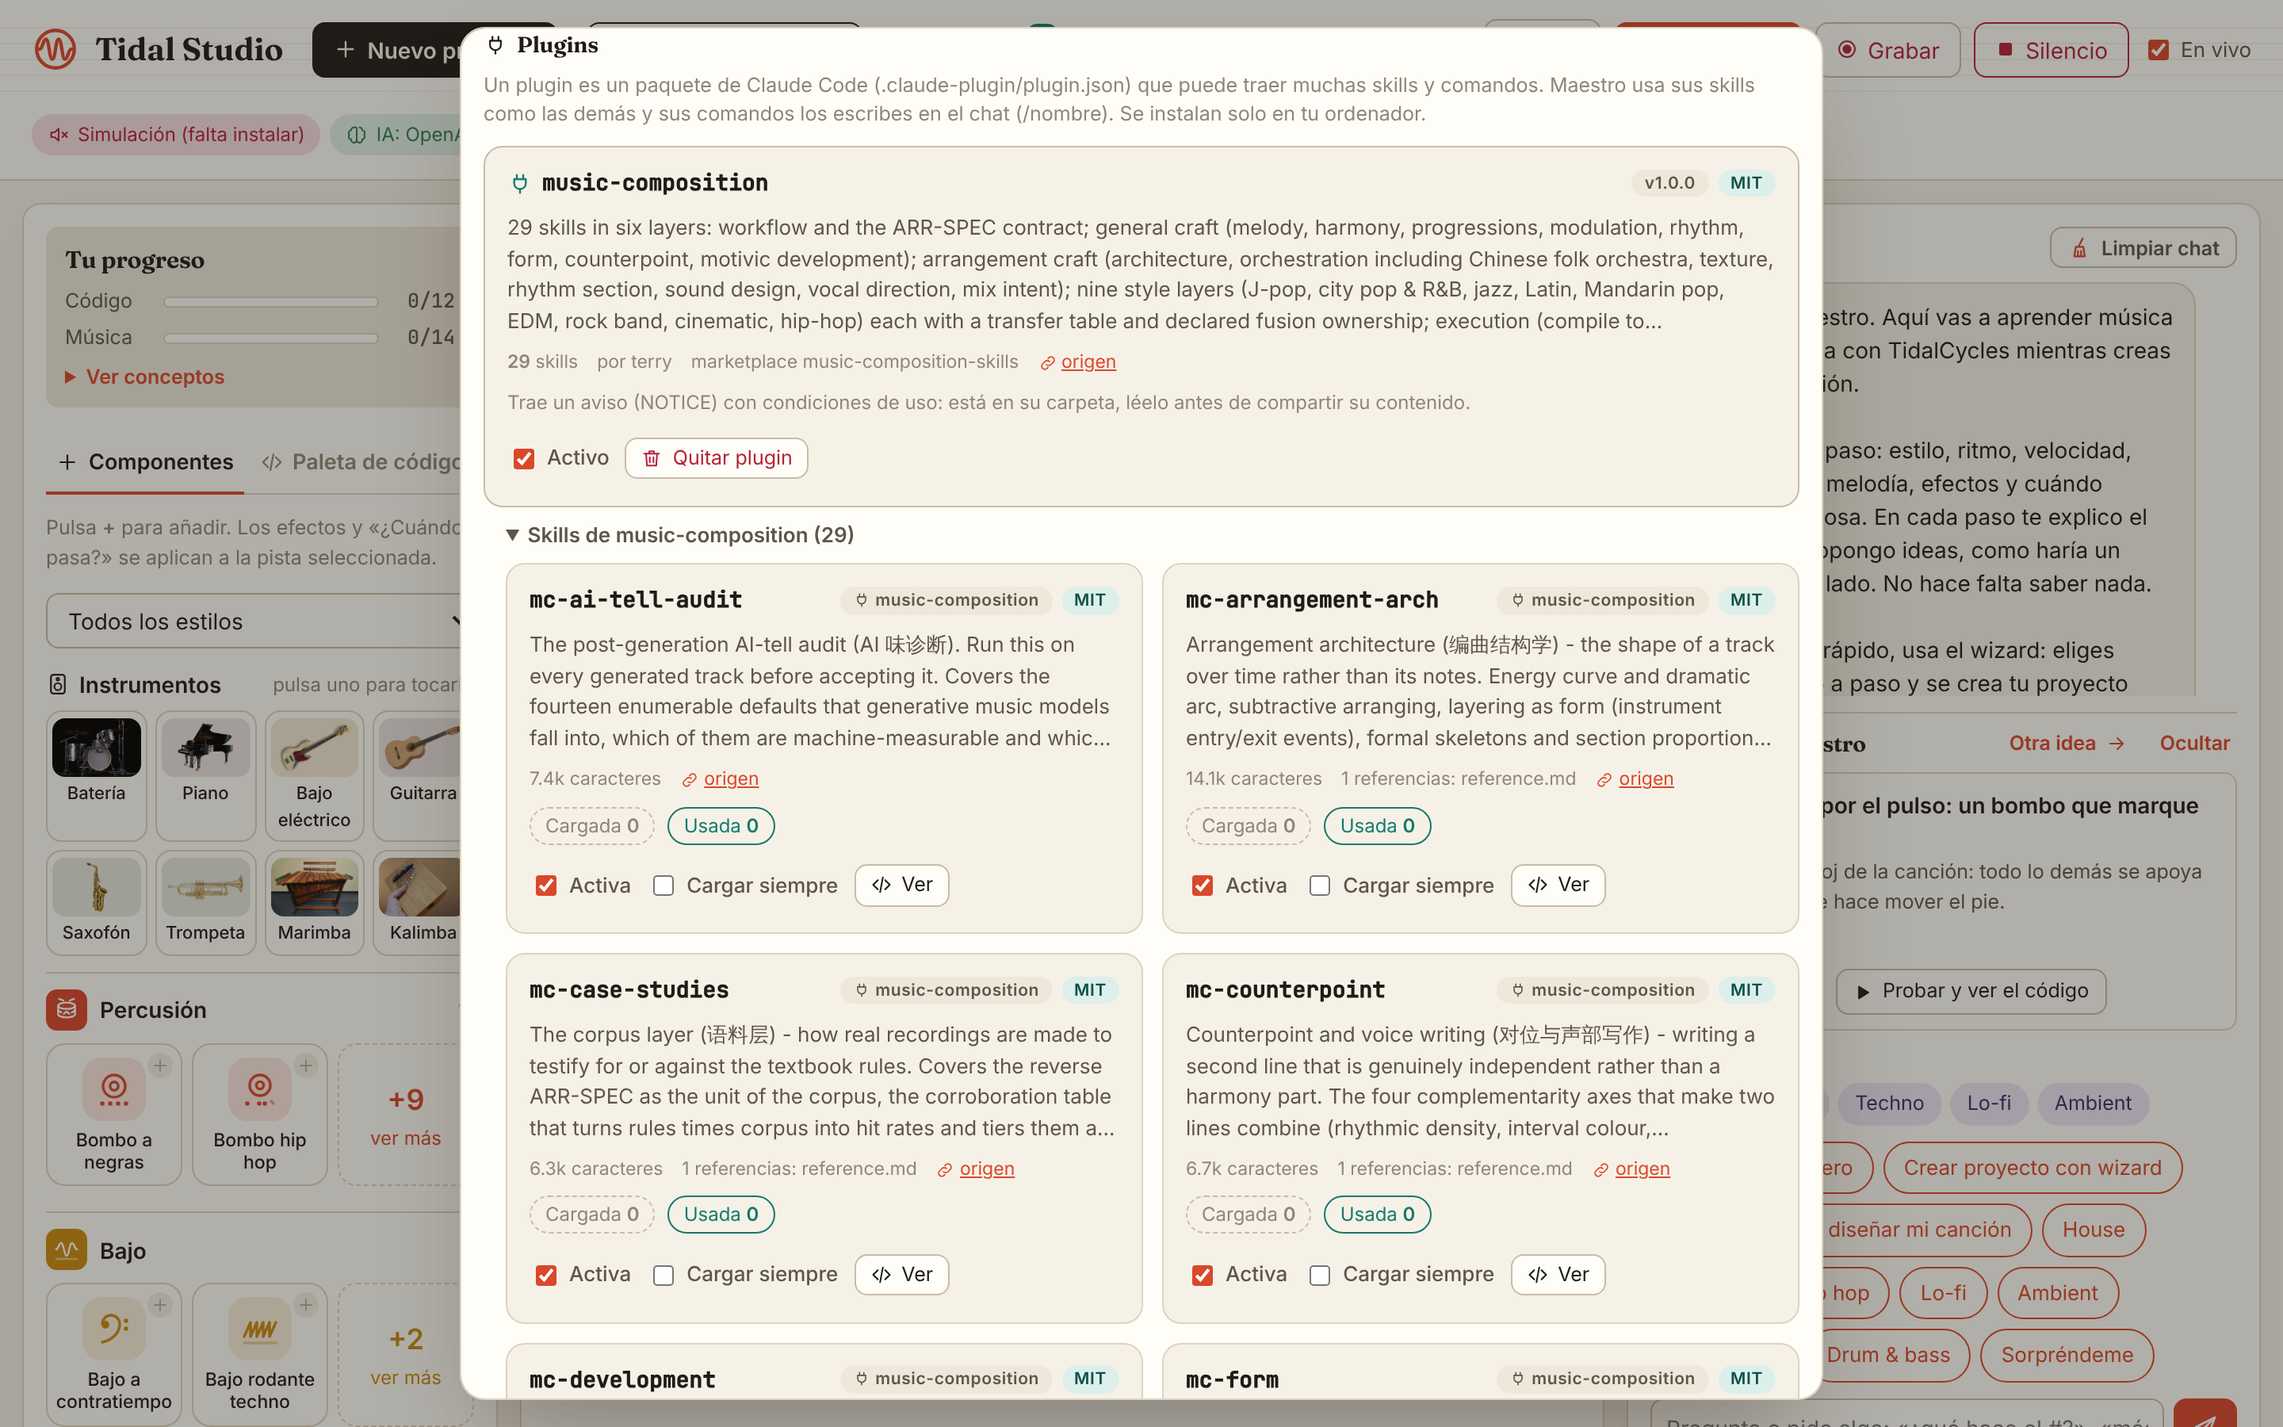
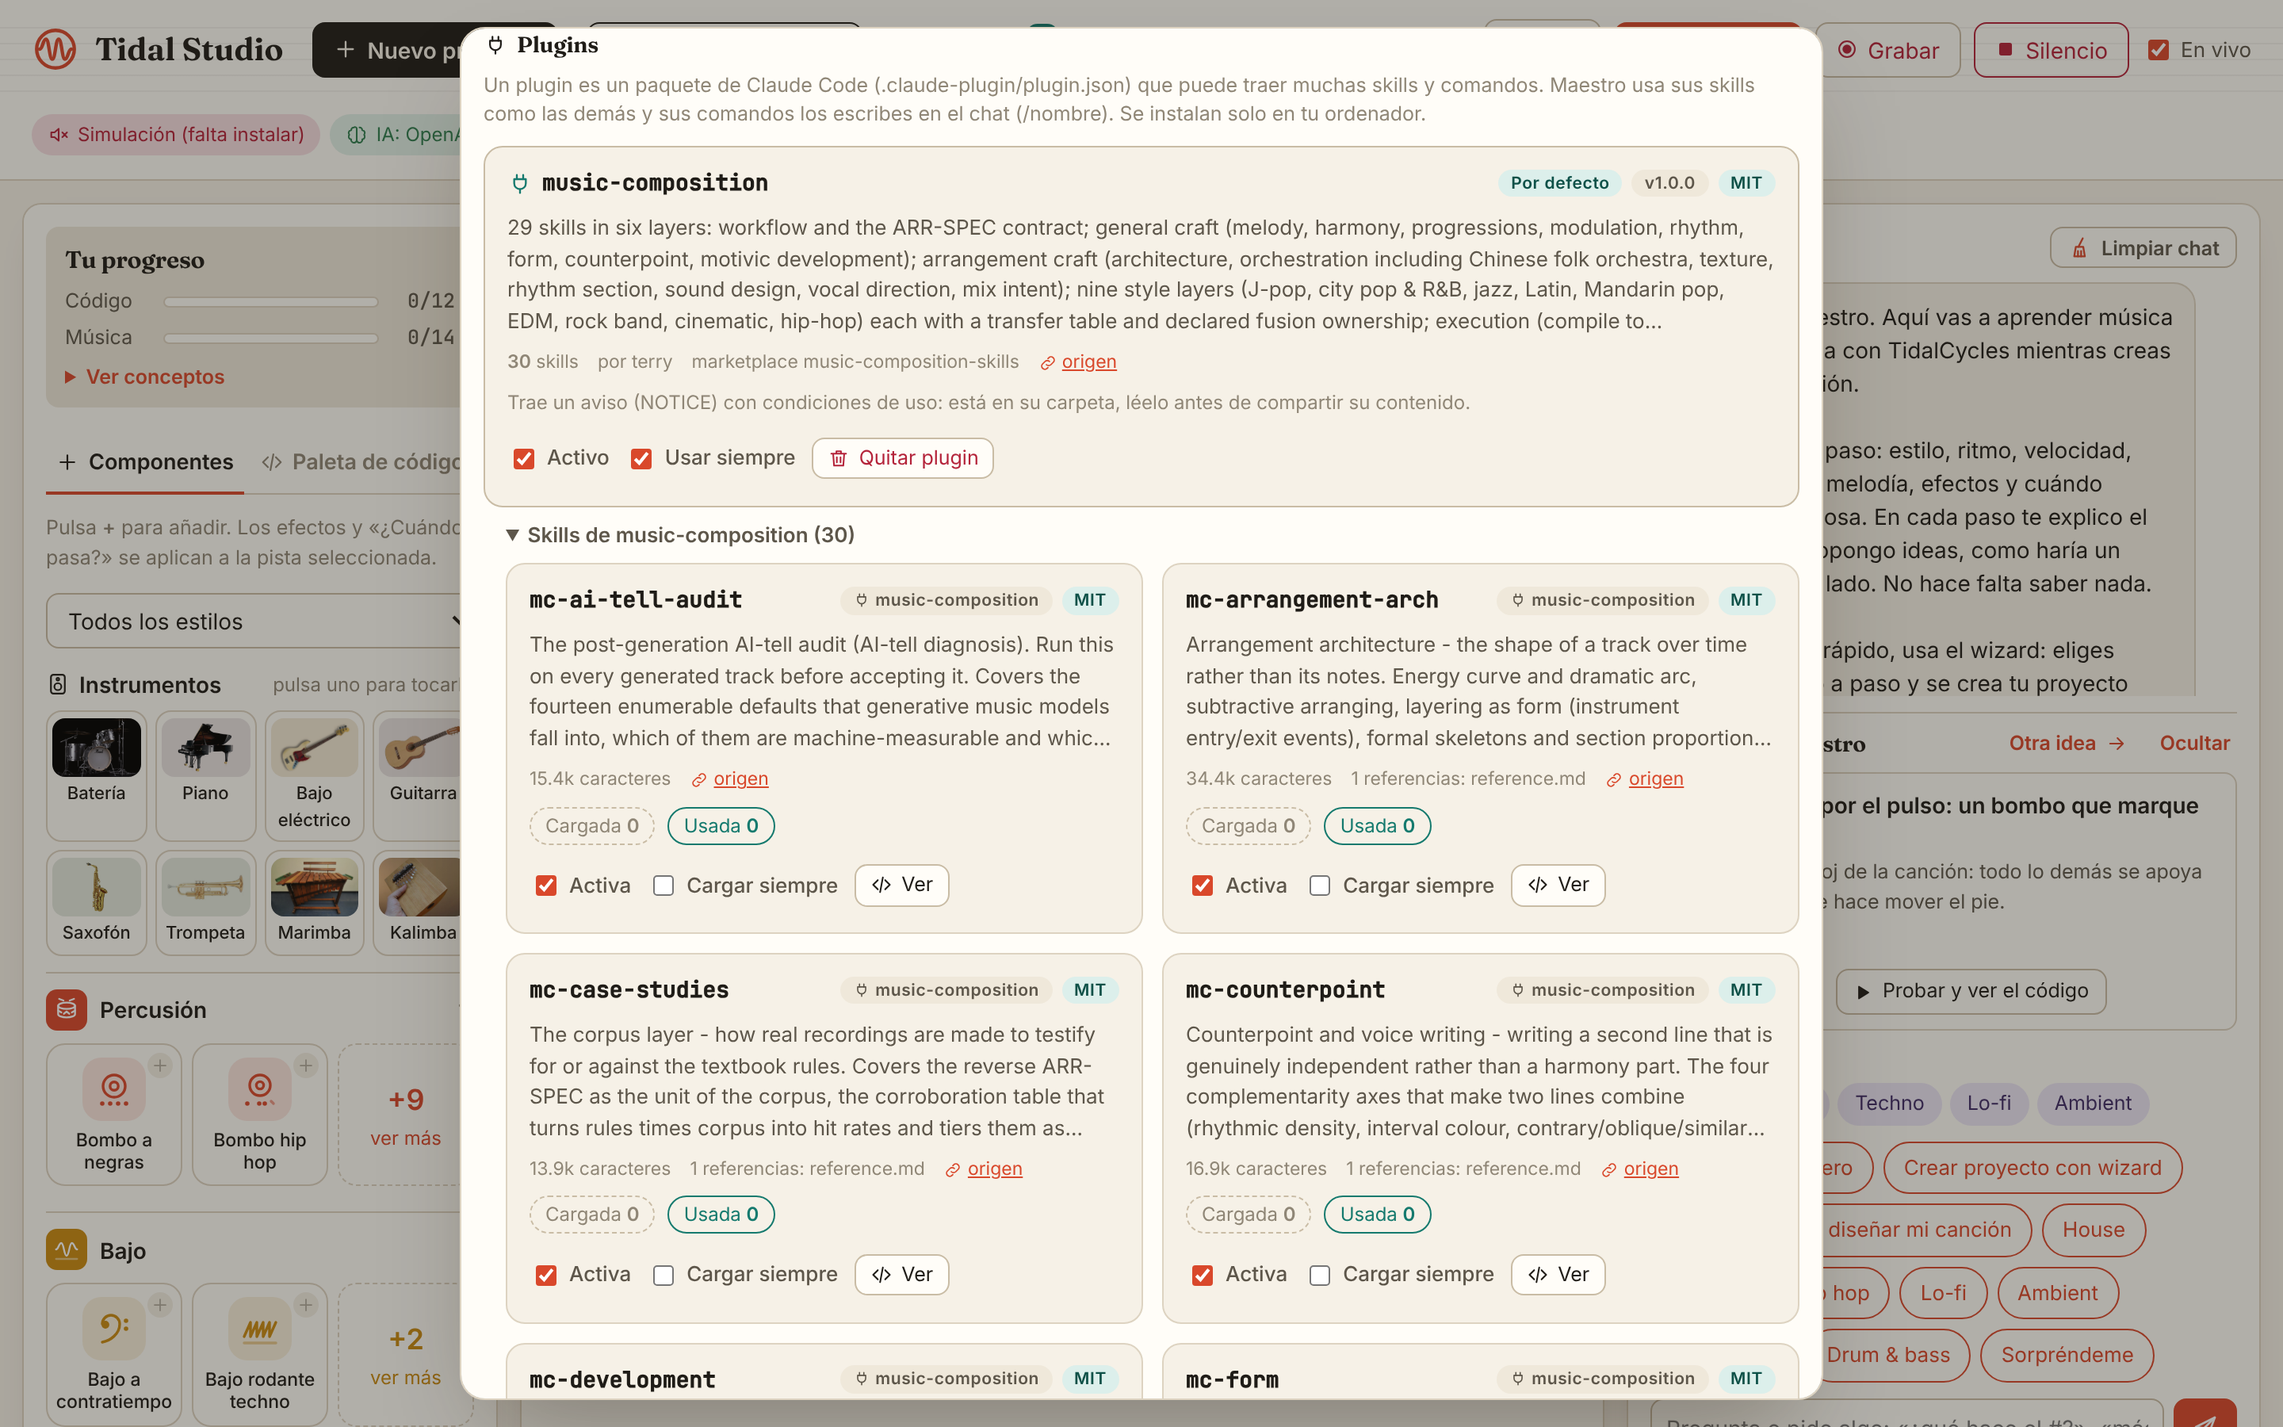
Default music-composition plugin: download on first start, always use it
Claude-Session: https://claude.ai/code/session_011rzsaU1tcsVigeZDwfcmsd

diff --git a/web/skills.js b/web/skills.js
@@ -50,6 +50,7 @@ function pluginCardHTML(p, focus) {
   return `<article class="sk-card pl-card ${p.enabled ? "" : "off"} ${focus === p.name ? "focus" : ""}" data-plugin="${esc(p.name)}">
       <header>
         ${icon("plugin", 16)}<b>${esc(p.title)}</b>
+        ${p.default ? `<span class="sk-tag lic">${L("Por defecto", "Default")}</span>` : ""}
         ${p.version ? `<span class="sk-tag">v${esc(p.version)}</span>` : ""}
         ${p.license ? `<span class="sk-tag lic">${esc(p.license)}</span>` : `<span class="sk-tag warn">${L("sin licencia", "no license")}</span>`}
       </header>
@@ -59,6 +60,7 @@ function pluginCardHTML(p, focus) {
       ${p.notice ? `<p class="pl-note">${L("Trae un aviso (NOTICE) con condiciones de uso: está en su carpeta, léelo antes de compartir su contenido.", "It ships a NOTICE with terms of use: it's in its folder, read it before sharing its content.")}</p>` : ""}
       <footer>
         <label class="toggle"><input type="checkbox" data-a="plugin-enable" ${p.enabled ? "checked" : ""}> ${L("Activo", "On")}</label>
+        <label class="toggle" title="${esc(L("Maestro carga su skill principal en cada mensaje y prefiere sus skills cuando encajan", "Maestro loads its main skill with every message and prefers its skills when they match"))}"><input type="checkbox" data-a="plugin-prefer" ${p.preferred ? "checked" : ""} ${p.enabled ? "" : "disabled"}> ${L("Usar siempre", "Always use")}</label>
         <button class="sk-btn danger" data-a="plugin-remove">${icon("trash", 14)} ${L("Quitar plugin", "Remove plugin")}</button>
       </footer>
     </article>`;
@@ -121,6 +123,7 @@ export function skillsDialogHTML(list, opts = {}) {
     <h3 class="sk-h">${icon("plugin", 15)} ${L("Plugins", "Plugins")}</h3>
     <p class="hint pl-intro">${L("Un plugin es un paquete de Claude Code (.claude-plugin/plugin.json) que puede traer muchas skills y comandos. Maestro usa sus skills como las demás y sus comandos los escribes en el chat (/nombre). Se instalan solo en tu ordenador.",
       "A plugin is a Claude Code package (.claude-plugin/plugin.json) that can bring many skills and commands. Maestro uses its skills like any other and you type its commands in the chat (/name). They're installed only on your computer.")}</p>
+    ${opts.defaultState === "installing" ? `<p class="hint">${L("Descargando el plugin de composición musical que viene por defecto…", "Downloading the default music composition plugin…")}</p>` : ""}
     ${pluginBlocks || `<p class="hint">${L("Aún no hay plugins instalados.", "No plugins installed yet.")}</p>`}
     <form class="sk-install" id="sk-install">
       <label>${icon("plus", 14)} ${L("Instalar una skill o un plugin desde GitHub", "Install a skill or a plugin from GitHub")}</label>

diff --git a/web/app.js b/web/app.js
@@ -2467,7 +2467,7 @@ async function openSkills(focus = "") {
   let r = { skills: [], folder: "" };
   try { r = await api("/api/skills"); } catch (e) { toast(e.message); }
   skillList = r.skills || [];
-  $("#skills-body").innerHTML = skillsDialogHTML(skillList, { focus, folder: r.folder, plugins: r.plugins || [], pluginFolder: r.plugin_folder });
+  $("#skills-body").innerHTML = skillsDialogHTML(skillList, { focus, folder: r.folder, plugins: r.plugins || [], pluginFolder: r.plugin_folder, defaultState: r.default_plugins });
   if (!$("#skills").open) $("#skills").showModal();
   const f = focus && ($(`#skills-body .sk-card[data-name="${CSS.escape(focus)}"]`) || $(`#skills-body .pl-card[data-plugin="${CSS.escape(focus)}"]`));
   if (f) f.scrollIntoView({ block: "nearest" });
@@ -2478,8 +2478,8 @@ function wireSkills() {
   body.addEventListener("change", async (e) => {
     const card = e.target.closest(".sk-card"); const a = e.target.dataset.a;
     if (!card || !a) return;
-    if (a === "plugin-enable") {
-      try { await api("/api/plugins/enable", { name: card.dataset.plugin, on: e.target.checked }); } catch (err) { toast(err.message); }
+    if (a === "plugin-enable" || a === "plugin-prefer") {
+      try { await api(`/api/plugins/${a === "plugin-enable" ? "enable" : "prefer"}`, { name: card.dataset.plugin, on: e.target.checked }); } catch (err) { toast(err.message); }
       return openSkills(card.dataset.plugin);
     }
     try { await api(`/api/skills/${a}`, { name: card.dataset.name, on: e.target.checked }); } catch (err) { toast(err.message); }

diff --git a/server/app.py b/server/app.py
@@ -71,6 +71,11 @@ DEFAULT_CONFIG = {
     # Plugins de Claude Code instalados en my-plugins/ (sus skills y comandos los usa Maestro)
     "plugins": {
         "disabled": [],
+        # «Usar siempre»: Maestro carga su skill principal en cada mensaje y prefiere sus skills
+        "preferred": ["music-composition"],
+        # Se descargan la primera vez que arranca (no van en el instalador: ver plugins.ensure_defaults)
+        "defaults": ["https://github.com/vsalesa/music-composition-skills"],
+        "defaults_done": [],
     },
     "temperature": 0.7,
     "language": "es",
@@ -168,6 +173,30 @@ def install_any(cfg, url, names=None):
         if is_skill_link and "no parece un plugin" in str(e):
             return {"kind": "skill", **skillset.install(url, cfg["github"].get("token", ""))}
         raise
+
+
+DEFAULT_PLUGINS = {"state": "idle", "installed": []}
+
+
+def install_default_plugins():
+    """Primer arranque: descarga los plugins por defecto (el de composición musical) en my-plugins/."""
+    cfg = load_config()
+    pending = [u for u in cfg["plugins"].get("defaults") or [] if u not in (cfg["plugins"].get("defaults_done") or [])]
+    if not pending:
+        return
+    DEFAULT_PLUGINS["state"] = "installing"
+    print("[plugins] Descargando los plugins por defecto / downloading default plugins…")
+    try:
+        got = pluginset.ensure_defaults(cfg)
+        fresh = load_config()  # por si cambiaste algo mientras tanto
+        fresh["plugins"]["defaults_done"] = cfg["plugins"]["defaults_done"]
+        save_config(fresh)
+        DEFAULT_PLUGINS.update(state="done", installed=got)
+        if got:
+            print(f"[plugins] Instalado / installed: {', '.join(got)}")
+    except Exception as e:  # sin red, sin git…: se reintenta en el próximo arranque
+        DEFAULT_PLUGINS["state"] = "error"
+        print(f"[plugins] {e}")
 
 
 ENGINE = Engine(ROOT)
@@ -302,7 +331,8 @@ class Handler(SimpleHTTPRequestHandler):
             if path == "/api/skills":
                 cfg = load_config()
                 return self._json({"skills": skillset.public(skillset.scan(cfg)), "folder": skillset.USER_DIR,
-                                   "plugins": pluginset.public(pluginset.scan(cfg)), "plugin_folder": pluginset.PLUGIN_DIR})
+                                   "plugins": pluginset.public(pluginset.scan(cfg)), "plugin_folder": pluginset.PLUGIN_DIR,
+                                   "default_plugins": DEFAULT_PLUGINS["state"]})
             if path == "/api/skills/body":
                 q = parse_qs(urlparse(self.path).query)
                 try:
@@ -477,6 +507,11 @@ class Handler(SimpleHTTPRequestHandler):
                         (cur.discard if data.get("on") else cur.add)(name)
                         pl["disabled"] = sorted(cur)
                         save_config(cfg)
+                    elif act == "prefer":
+                        cur = set(pl.get("preferred") or [])
+                        (cur.add if data.get("on") else cur.discard)(name)
+                        pl["preferred"] = sorted(cur)
+                        save_config(cfg)
                     elif act == "install":
                         r = install_any(cfg, data.get("url"), data.get("names"))
                         return self._json({**r, "skills": skillset.public(skillset.scan(cfg)),
@@ -620,6 +655,7 @@ def main():
     print(f"\n🎛  Tidal Studio listo en {url}\n   (Ctrl+C para salir)\n")
     if not ARGS.no_engine:
         threading.Thread(target=ENGINE.start, daemon=True).start()
+    threading.Thread(target=install_default_plugins, daemon=True).start()
     if not ARGS.no_browser:
         threading.Timer(1.0, lambda: webbrowser.open(url)).start()
     try:

diff --git a/server/skills.py b/server/skills.py
@@ -143,6 +143,9 @@ def scan(cfg=None):
     sk = (cfg or {}).get("skills") or {}
     disabled = set(sk.get("disabled") or [])
     pinned = set(sk.get("pinned") or [])
+    # Plugins «usar siempre»: su skill principal (la que se llama como el plugin) se carga en cada
+    # mensaje y el resto de sus skills tienen prioridad al elegir.
+    preferred = set(((cfg or {}).get("plugins") or {}).get("preferred") or [])
     out, seen = [], set()
     places = []
     for origin, d in (("builtin", BUILTIN_DIR), ("user", USER_DIR)):
@@ -160,6 +163,10 @@ def scan(cfg=None):
         text = _read(path)
         meta, body = _parse_frontmatter(text)
         name = re.sub(r"[^a-z0-9-]+", "-", str(meta.get("name") or entry).lower()).strip("-") or entry
+        orig = name
+        if name in seen and plugin:
+            # mismo nombre que una skill incluida: la del plugin lleva su apellido
+            name = f"{plugin}-plugin" if name == plugin else f"{plugin}-{name}"
         if name in seen:
             continue
         seen.add(name)
@@ -182,7 +189,8 @@ def scan(cfg=None):
             "url": src.get("url") or "",
             "author": src.get("author") or str(meta.get("author") or ""),
             "enabled": name not in disabled,
-            "pinned": name in pinned,
+            "pinned": name in pinned or (plugin in preferred and orig == plugin),
+            "preferred": plugin in preferred,
             "_path": path,
             "_folder": folder,
             "_body": body,
@@ -305,9 +313,15 @@ def select(cfg, query, extra_words=""):
         sc = 100 if s["pinned"] else _score(s, words, query + " " + extra_words)
         ranked.append((sc, s))
     ranked.sort(key=lambda x: -x[0])
+    # Un plugin «usar siempre» tiene garantizado un hueco: su mejor skill que encaje entra la primera
+    best_pref = next(((sc, s) for sc, s in ranked if s.get("preferred") and not s["pinned"] and sc >= 4), None)
+    if best_pref:
+        ranked.remove(best_pref)
+        pins = [x for x in ranked if x[1]["pinned"]]
+        ranked = pins + [best_pref] + [x for x in ranked if not x[1]["pinned"]]
     loaded, parts, used_chars = [], [], 0
     for sc, s in ranked:
-        if len(loaded) >= MAX_LOADED and not s["pinned"]:
+        if sum(1 for x in loaded if not x["pinned"]) >= MAX_LOADED and not s["pinned"]:  # las fijadas no cuentan
             break
         if sc < 4:
             break

diff --git a/server/plugins.py b/server/plugins.py
@@ -349,6 +349,33 @@ def install(url, names=None):
         shutil.rmtree(tmp, ignore_errors=True)
 
 
+DEFAULT_REPOS = ["https://github.com/vsalesa/music-composition-skills"]
+
+
+def ensure_defaults(cfg):
+    """Instala los plugins que vienen «por defecto» la primera vez que arranca Tidal Studio.
+    No se empaquetan en el instalador: su contenido cita libros con copyright (ver su NOTICE),
+    así que se descargan de su repositorio. Si los quitas, no vuelven. Devuelve lo instalado."""
+    pl = cfg.setdefault("plugins", {})
+    done = set(pl.get("defaults_done") or [])
+    out = []
+    for url in pl.get("defaults") or []:
+        if url in done:
+            continue
+        owner, repo, _, _ = parse_url(url)
+        try:
+            r = install(url, None)
+        except PluginError as e:
+            print(f"[plugins] No se pudo instalar {owner}/{repo} (se reintentará al arrancar): {e}")
+            continue
+        if r.get("choose"):  # marketplace con varios: instalamos todos los que se puedan
+            r = install(url, [c["name"] for c in r["choose"] if c["installable"]])
+        out += r.get("installed", [])
+        done.add(url)
+    pl["defaults_done"] = sorted(done)
+    return out
+
+
 def remove(name):
     name = _slug(name)
     d = os.path.join(PLUGIN_DIR, name)
@@ -373,6 +400,7 @@ def _md_meta(path):
 def scan(cfg=None):
     pl = (cfg or {}).get("plugins") or {}
     disabled = set(pl.get("disabled") or [])
+    preferred = set(pl.get("preferred") or [])
     out = []
     if not os.path.isdir(PLUGIN_DIR):
         return out
@@ -409,6 +437,8 @@ def scan(cfg=None):
             "marketplace": src.get("marketplace") or "",
             "notice": os.path.isfile(os.path.join(folder, "NOTICE")),
             "enabled": entry not in disabled,
+            "preferred": entry in preferred,
+            "default": (src.get("repo") or "").lower() in {u.split("github.com/")[-1].lower() for u in DEFAULT_REPOS},
             "skills": [s.rsplit("/", 1)[-1] for s in skills],
             "commands": cmds,
             "agents": ags,

diff --git a/README.es.md b/README.es.md
@@ -280,6 +280,13 @@ por ejemplo `https://github.com/jtydhr88/music-composition-skills`. Tidal Studio
 Cada plugin se puede desactivar (desaparecen sus skills y comandos) o quitar. Mira su licencia y su `NOTICE` antes de
 compartir su contenido.
 
+**Viene por defecto: composición musical.** La primera vez que Tidal Studio arranca con internet descarga
+[vsalesa/music-composition-skills](https://github.com/vsalesa/music-composition-skills) (la traducción al inglés del
+plugin de composición de jtydhr88, 30 skills, MIT) en `my-plugins/`. Está marcado **Usar siempre**: Maestro carga su
+skill principal `music-composition` en cada mensaje y siempre reserva un hueco para la skill suya que mejor encaje
+(armonía, jazz, groove, forma…). Se descarga en vez de ir dentro del instalador porque sus referencias citan libros con
+copyright (ver su `NOTICE`). Si lo quitas, no vuelve; desmarca «Usar siempre» para que sea un plugin normal.
+
 ### Samples
 
 Tus sonidos viven en `samples/<nombre>/` (cada carpeta es un sonido de Tidal: `s "nombre"`, `s "nombre:1"` para el segundo

diff --git a/README.md b/README.md
@@ -278,6 +278,13 @@ this repository) and then:
 Each plugin can be turned off (its skills and commands disappear) or removed. Check its license and any `NOTICE` before
 sharing its content.
 
+**Included by default: music composition.** The first time Tidal Studio starts with internet, it downloads
+[vsalesa/music-composition-skills](https://github.com/vsalesa/music-composition-skills) (the English translation of
+jtydhr88's 30-skill composition plugin, MIT) into `my-plugins/`. It is marked **Always use**: Maestro loads its main
+`music-composition` skill with every message and always gives one slot to its best-matching skill (harmony, jazz,
+groove, form…). It is downloaded instead of shipped in the installer because its reference files quote copyrighted
+books (see its `NOTICE`). If you remove it, it doesn't come back; untick «Always use» to make it an ordinary plugin.
+
 ### Samples
 
 Your sounds live in `samples/<name>/` (each folder is a Tidal sound: `s "name"`, `s "name:1"` for the second file).
